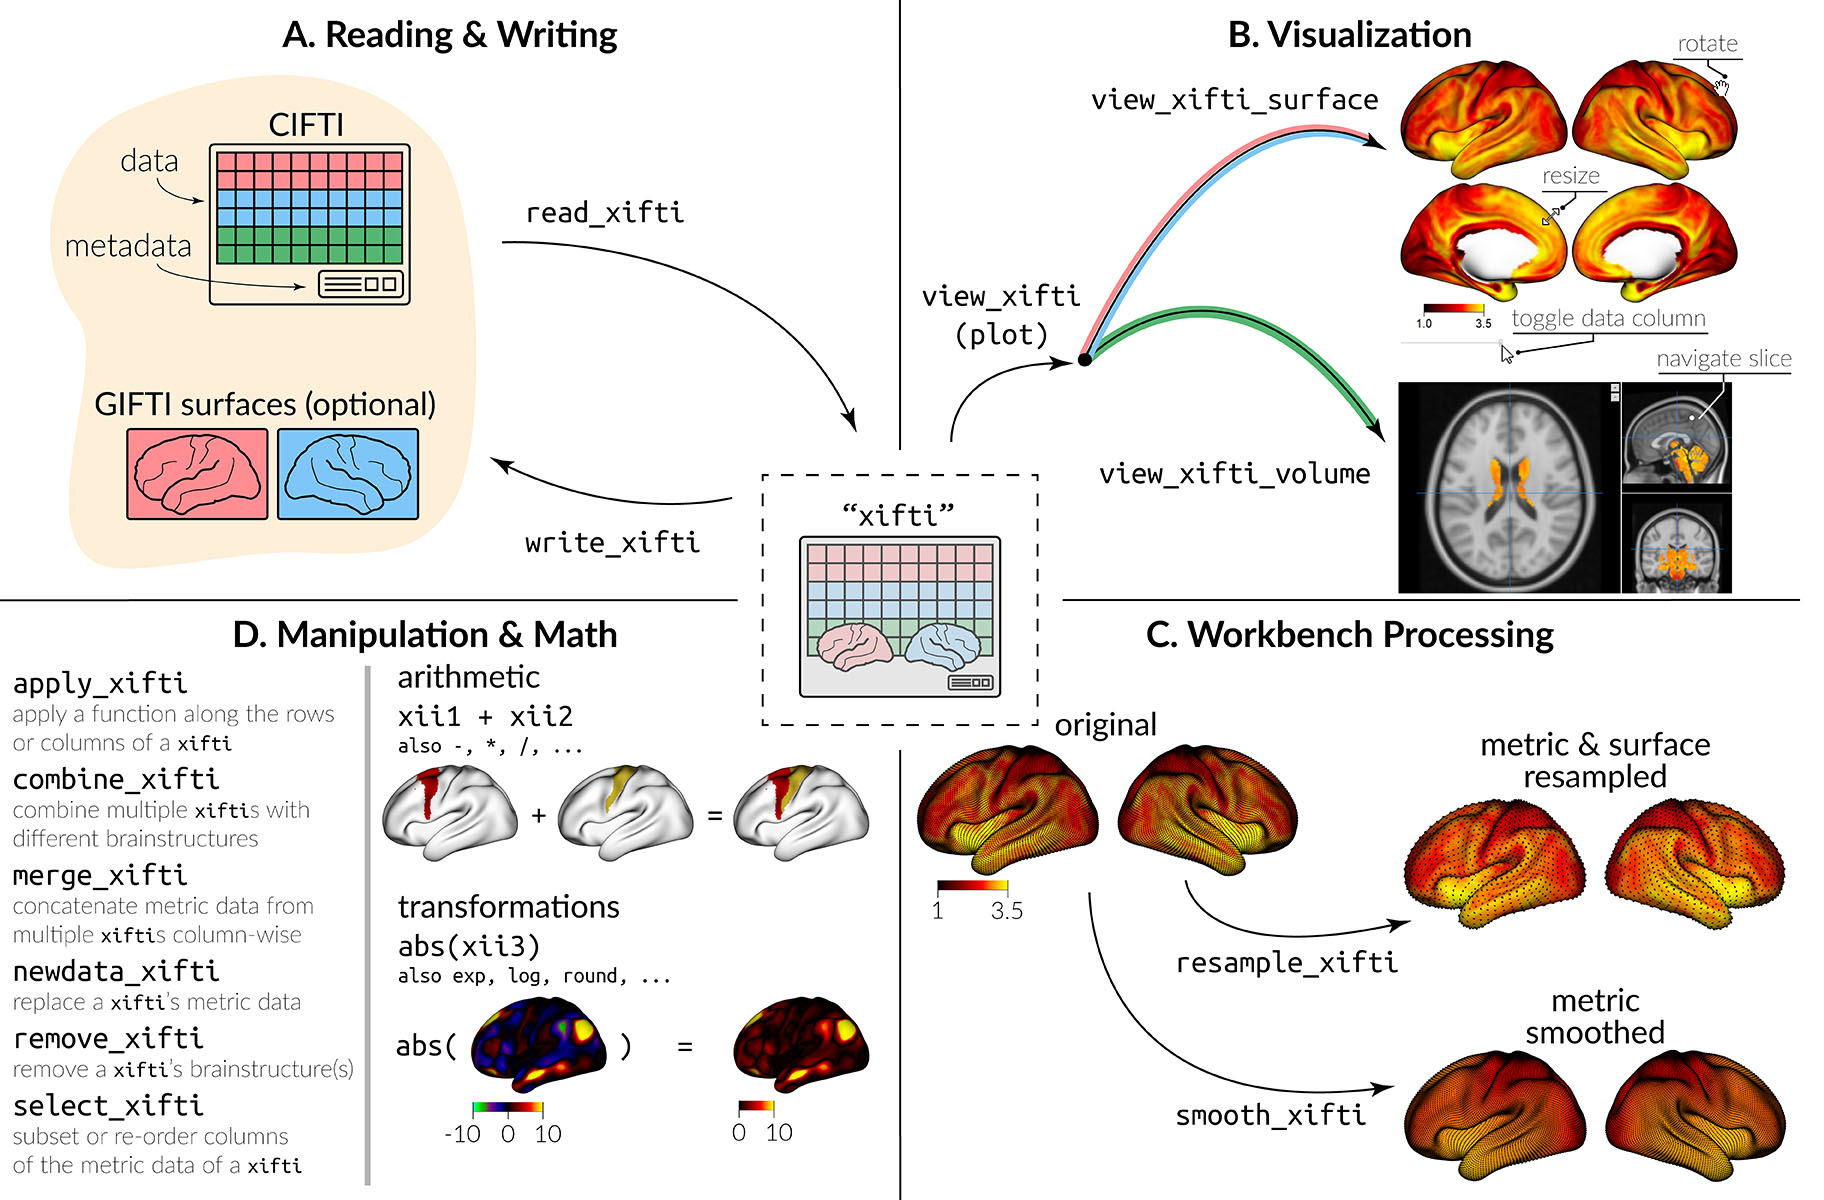
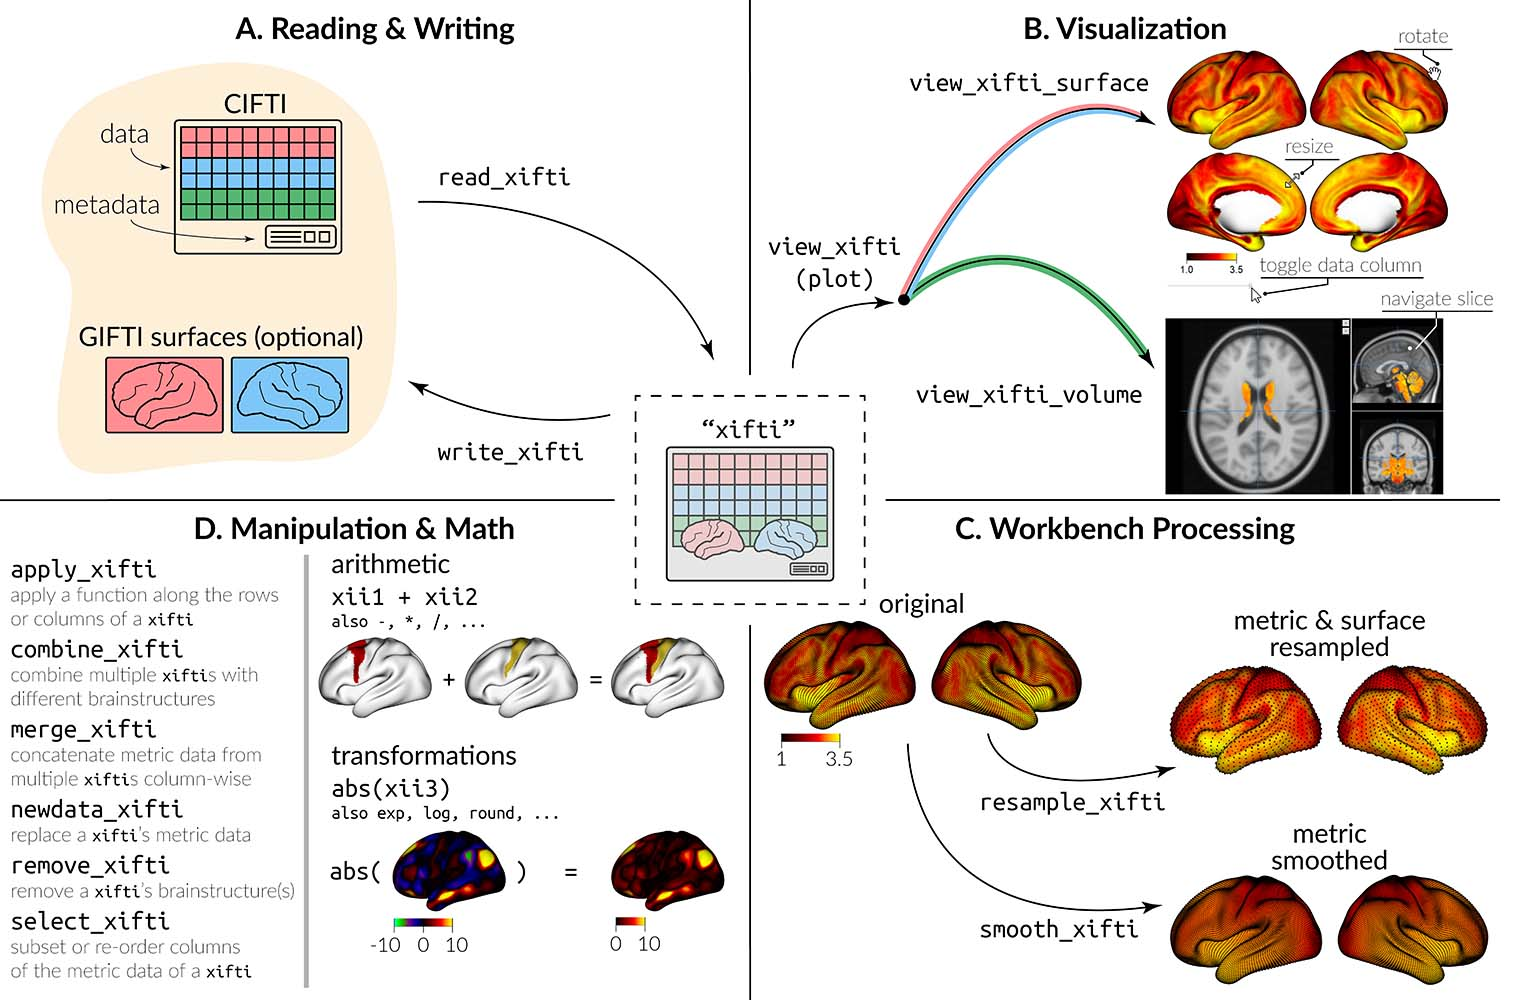
Reduce package size by lowering image resolutions and deleting GIF. Resubmit to CRAN.

diff --git a/README.md b/README.md
@@ -168,15 +168,6 @@ alt="“xifti” object structure" />
 <figcaption aria-hidden="true">“xifti” object structure</figcaption>
 </figure>
 
-<figure>
-<img src="man/figures/surf_tour.gif" style="width:25.0%"
-alt="Surfaces comparison. The “very inflated”, “inflated”, and “midthickness” surfaces are included in ciftiTools through the function load_surf. See the data acknowledgement section at the bottom of this README." />
-<figcaption aria-hidden="true">Surfaces comparison. The “very inflated”,
-“inflated”, and “midthickness” surfaces are included in ciftiTools
-through the function <code>load_surf</code>. See the data
-acknowledgement section at the bottom of this README.</figcaption>
-</figure>
-
 ## FAQ
 
 ### Why is a CIFTI file that has been read in called a `"xifti"`?

diff --git a/cran-comments.md b/cran-comments.md
@@ -25,12 +25,10 @@ Passes all the tests in `tests/run_ciftiTools_tests.R`
 
 ## Previous submission
 
-  Quitting from lines 69-71 [unnamed-chunk-6] (ciftiTools_vignette.Rmd)
-  Error: processing vignette 'ciftiTools_vignette.Rmd' failed with diagnostics:
-  '"C:\Users\CRAN\Documents/Applications"' not found
-  --- failed re-building 'ciftiTools_vignette.Rmd'
+Thanks, we see:
 
-  SUMMARY: processing the following file failed:
-    'ciftiTools_vignette.Rmd'
+   Size of tarball: 6613479 bytes
 
-* The vignette has been modified to avoid this error. 
+Last version was 4 MB, why can't you reduce to less than 5 MB?
+
+* The vignette and README have been modified to reduce the package size.

diff --git a/NEWS.md b/NEWS.md
@@ -1,4 +1,4 @@
-# 17.2
+# 17.4
 
 * Set read/write default for `brainstructures` to `"existing"` (rather than all or just cortex).
 * `impute_xifti`: Add this function which imputes values based on nearby locations.
